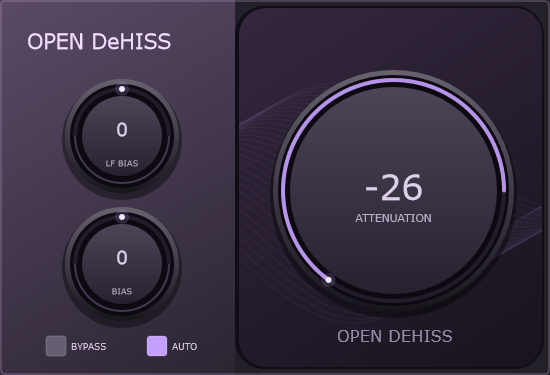
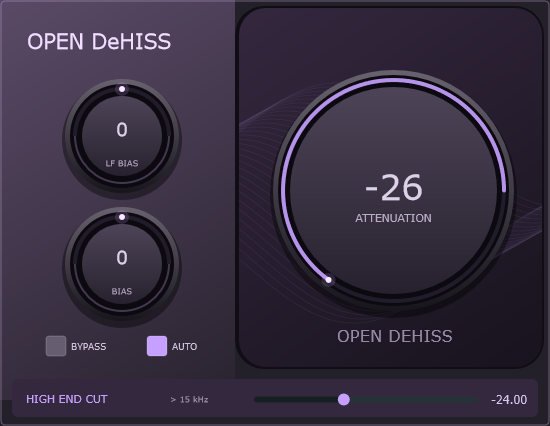
Add independent High End Cut above 15 kHz with DSP and GUI tests

diff --git a/Tests.cpp b/Tests.cpp
@@ -57,17 +57,44 @@ int main()
             for(int i=0;i<count;++i)a.setSample(0,i,noise[offset+i]);p.processBlock(a,m);
             result.insert(result.end(),a.getReadPointer(0),a.getReadPointer(0)+count);offset+=count;}return result;};
     require(partitioned(64)==partitioned(257),"output independent of host block partition");
+    for(double rate:{44100.0,48000.0,96000.0})
+    {
+        HissChannel probe;probe.prepare(rate);const int delay=probe.latency();
+        HissSettings high;high.reduction=0;high.highEndCut=24;high.automatic=false;high.threshold=-20;
+        for(double freq:{1000.0,14000.0,18000.0,21000.0})
+        {
+            std::vector<float> tone(static_cast<size_t>(rate*2),0.f);
+            for(int i=0;i<int(tone.size());++i)tone[i]=float(0.0005*std::sin(2*juce::MathConstants<double>::pi*freq*i/rate));
+            auto filtered=render(tone,rate,high);
+            const double cut=20*std::log10(rms(tone,int(rate),int(2*rate))/rms(filtered,int(rate)+delay,int(2*rate)+delay));
+            std::cout<<"High End Cut "<<rate<<" Hz, tone "<<freq<<" Hz: "<<cut<<" dB\n";
+            require(freq<15000?std::abs(cut)<0.1:std::abs(cut-24)<0.5,"high-band suppression preserves low band and reaches selected floor");
+        }
+    }
+    HissSettings aboveNyquist;aboveNyquist.reduction=0;aboveNyquist.highEndCut=40;
+    std::vector<float> lowRateInput(30000,0.01f);auto lowRateOutput=render(lowRateInput,30000,aboveNyquist);
+    require(lowRateOutput[2000]==lowRateInput[976],"high cut is exact dry when Nyquist is at or below 15 kHz");
+    require(processor.state.getRawParameterValue("highEndCut")->load()==0,"High End Cut defaults off");
+    processor.state.getParameter("highEndCut")->setValueNotifyingHost(0.4f);
+    processor.getStateInformation(saved);restored.setStateInformation(saved.getData(),int(saved.getSize()));
+    require(std::abs(restored.state.getRawParameterValue("highEndCut")->load()+24)<0.001,"High End Cut survives state restore");
     OpenHissProcessor uiProcessor;
     std::unique_ptr<juce::AudioProcessorEditor> editor(uiProcessor.createEditor());
     const auto preview=editor->createComponentSnapshot(editor->getLocalBounds());
     juce::FileOutputStream previewFile(juce::File::getCurrentWorkingDirectory().getChildFile("editor-preview.png"));
+    previewFile.setPosition(0);previewFile.truncate();
     juce::PNGImageFormat png;
-    require(preview.isValid() && preview.getWidth()>0 && png.writeImageToStream(preview,previewFile),"editor instantiates and renders to PNG");
+    require(preview.isValid() && preview.getWidth()==550 && preview.getHeight()==426 && png.writeImageToStream(preview,previewFile),"editor instantiates and renders to PNG");
     auto* dial=dynamic_cast<juce::Slider*>(editor->findChildWithID("attenuation"));
     require(dial && dial->getValue()==0,"attenuation dial displays zero by default");
+    auto* highDial=dynamic_cast<juce::Slider*>(editor->findChildWithID("highEndCut"));
+    require(highDial && highDial->isVisible() && highDial->getValue()==0,"High End Cut control is visible and defaults zero");
+    highDial->setValue(-24,juce::sendNotificationSync);
+    require(std::abs(uiProcessor.state.getRawParameterValue("highEndCut")->load()+24)<0.001,"High End Cut GUI controls its DSP parameter");
     dial->setValue(-26,juce::sendNotificationSync);
     require(std::abs(uiProcessor.state.getRawParameterValue("attenuation")->load()+26)<0.001,"GUI dial updates the DSP attenuation parameter");
     juce::FileOutputStream activePreview(juce::File::getCurrentWorkingDirectory().getChildFile("editor-preview-26.png"));
+    activePreview.setPosition(0);activePreview.truncate();
     require(png.writeImageToStream(editor->createComponentSnapshot(editor->getLocalBounds()),activePreview),"active attenuation editor renders to PNG");
     uiProcessor.state.getParameter("auto")->setValueNotifyingHost(0);
     std::unique_ptr<juce::AudioProcessorEditor> manualEditor(uiProcessor.createEditor());

diff --git a/Editor.cpp b/Editor.cpp
@@ -39,11 +39,11 @@ void PurpleDialLook::drawToggleButton(juce::Graphics& g,juce::ToggleButton& b,bo
 }
 OpenDeHISSEditor::OpenDeHISSEditor(OpenHissProcessor& p):AudioProcessorEditor(p),processor(p)
 {
-    setLookAndFeel(&look);setSize(550,375);
-    const char* ids[]={"attenuation","lowBias","bias","threshold","mix"};
-    juce::Slider* controls[]={&attenuation,&lfBias,&bias,&threshold,&mix};
-    const char* names[]={"ATTENUATION","LF BIAS","BIAS","THRESHOLD","MIX %"};
-    for(int i=0;i<5;++i){auto& s=*controls[i];s.setName(names[i]);s.setComponentID(ids[i]);
+    setLookAndFeel(&look);setSize(550,426);
+    const char* ids[]={"attenuation","lowBias","bias","threshold","mix","highEndCut"};
+    juce::Slider* controls[]={&attenuation,&lfBias,&bias,&threshold,&mix,&highEndCut};
+    const char* names[]={"ATTENUATION","LF BIAS","BIAS","THRESHOLD","MIX %","HIGH END CUT"};
+    for(int i=0;i<6;++i){auto& s=*controls[i];s.setName(names[i]);s.setComponentID(ids[i]);
         s.setSliderStyle(i<3?juce::Slider::RotaryVerticalDrag:juce::Slider::LinearHorizontal);
         s.setTextBoxStyle(i<3?juce::Slider::NoTextBox:juce::Slider::TextBoxRight,false,46,20);
         s.setColour(juce::Slider::thumbColourId,purple);s.setColour(juce::Slider::textBoxTextColourId,juce::Colour(0xffd9c5ee));
@@ -54,6 +54,8 @@ OpenDeHISSEditor::OpenDeHISSEditor(OpenHissProcessor& p):AudioProcessorEditor(p)
     lfBias.setRotaryParameters(juce::MathConstants<float>::pi*1.5f,juce::MathConstants<float>::pi*2.5f,true);
     bias.setRotaryParameters(juce::MathConstants<float>::pi*1.5f,juce::MathConstants<float>::pi*2.5f,true);
     threshold.setVisible(false);mix.setVisible(false);
+    highEndCut.setDoubleClickReturnValue(true,0);
+    highEndCut.setTooltip("Dehiss acima de 15 kHz. 0 dB desliga; valores negativos aumentam a reducao.");
     addAndMakeVisible(bypass);addAndMakeVisible(automatic);
     buttons[0]=std::make_unique<juce::AudioProcessorValueTreeState::ButtonAttachment>(p.state,"bypass",bypass);
     buttons[1]=std::make_unique<juce::AudioProcessorValueTreeState::ButtonAttachment>(p.state,"auto",automatic);
@@ -73,6 +75,7 @@ void OpenDeHISSEditor::resized()
     lfBias.setBounds(58,72,128,128);bias.setBounds(58,200,128,128);attenuation.setBounds(266,63,255,255);
     bypass.setBounds(44,331,95,30);automatic.setBounds(145,331,85,30);
     threshold.setBounds(40,366,185,22);mix.setBounds(375,366,146,22);
+    highEndCut.setBounds(245,386,287,27);
 }
 void OpenDeHISSEditor::paint(juce::Graphics& g)
 {
@@ -84,5 +87,8 @@ void OpenDeHISSEditor::paint(juce::Graphics& g)
         if(x==239)wave.startNewSubPath(float(x),y);else wave.lineTo(float(x),y);}g.setColour(purple.withAlpha(0.09f));g.strokePath(wave,juce::PathStrokeType(0.7f));}
     g.setColour(juce::Colour(0xfff1ddff));g.setFont(25.f);g.drawText("OPEN DeHISS",27,24,207,34,juce::Justification::centredLeft);
     g.setColour(juce::Colour(0xff9989a9));g.setFont(20.f);g.drawText("OPEN DEHISS",265,321,260,29,juce::Justification::centred);
-    g.setColour(juce::Colour(0xffb89ecb).withAlpha(0.5f));g.drawRoundedRectangle(1,1,548,373,4,1);
+    g.setColour(juce::Colour(0xff34283f));g.fillRoundedRectangle(12,379,526,38,6);
+    g.setColour(purple);g.setFont(13.f);g.drawText("HIGH END CUT",26,386,145,26,juce::Justification::centredLeft);
+    g.setColour(juce::Colour(0xffa99ab5));g.setFont(10.f);g.drawText("> 15 kHz",170,386,70,26,juce::Justification::centredLeft);
+    g.setColour(juce::Colour(0xffb89ecb).withAlpha(0.5f));g.drawRoundedRectangle(1,1,548,424,4,1);
 }

diff --git a/Denoiser.h b/Denoiser.h
@@ -6,7 +6,7 @@
 #include <cmath>
 #include <memory>
 #include <vector>
-struct HissSettings { float reduction=12, bias=0, threshold=-65, lowBias=0, mix=1; bool automatic=true, bypass=false; };
+struct HissSettings { float reduction=12, highEndCut=0, bias=0, threshold=-65, lowBias=0, mix=1; bool automatic=true, bypass=false; };
 class HissChannel
 {
 public:
@@ -31,7 +31,8 @@ public:
         const float wet=output[outPos]; output[outPos]=0;
         if(++sinceFrame==hop){sinceFrame=0;frame(s);}
         ++cursor;
-        const float selected=(s.bypass || s.reduction<=0) ? delayed : delayed+s.mix*(wet-delayed);
+        const bool inactive=s.reduction<=0 && (s.highEndCut<=0 || fs*0.5<=15000);
+        const float selected=(s.bypass || inactive) ? delayed : delayed+s.mix*(wet-delayed);
         return std::isfinite(selected) ? selected : 0;
     }
 private:
@@ -42,7 +43,6 @@ private:
         for(int i=0;i<n;++i) work[i]=input[(start+i)%n]*window[i];
         fft->performRealOnlyForwardTransform(work.data());
         const int used=int(std::min<uint64_t>(frames+1,21));
-        const double floorGain=std::pow(10.0,-s.reduction/20.0);
         const double manualPower=std::pow(10.0,s.threshold/10.0)*n*0.5;
         const double timeGain=std::exp(-double(hop)/(fs*0.035));
         for(int k=0;k<bins;++k)
@@ -58,12 +58,17 @@ private:
             else {const double alpha=std::exp(-double(hop)/(fs*(estimate<noise[k]?0.15:3.0)));
                   noise[k]=alpha*noise[k]+(1-alpha)*estimate;}
             const double frequency=double(k)*fs/n;
+            // Same noise estimator and suppression law, restricted to the high band.
+            // A short transition ABOVE 15 kHz avoids a discontinuous spectral edge.
+            const double highWeight=std::clamp((frequency-15000.0)/500.0,0.0,1.0);
+            const double effectiveReduction=std::max(double(s.reduction),s.highEndCut*highWeight);
+            const double floorGain=std::pow(10.0,-effectiveReduction/20.0);
             const double shape=std::pow(10.0,(s.bias+s.lowBias*std::max(0.0,1.0-frequency/5000.0))/10.0);
             const double np=(s.automatic?noise[k]:manualPower)*shape;
             // Independent beta baseline: Wiener-style spectral suppression, not recovered CEDAR code.
             const double target=std::max(floorGain,std::sqrt(std::max(0.0,1.0-np/(p+1e-30))));
             gain[k]=timeGain*gain[k]+(1-timeGain)*target;
-            const double g=(s.reduction<=0 || s.bypass)?1.0:gain[k];
+            const double g=(effectiveReduction<=0 || s.bypass)?1.0:gain[k];
             work[2*k]=float(real*g); work[2*k+1]=float(imag*g);
         }
         fft->performRealOnlyInverseTransform(work.data());

diff --git a/tools/HostCheck.cpp b/tools/HostCheck.cpp
@@ -43,7 +43,24 @@ int main(int argc,char** argv)
     for(int b=0;b<20;++b){buffer.clear();for(int i=0;i<257;++i)buffer.setSample(0,i,float(0.1*std::sin((b*257+i)*0.1)));
         instance->processBlock(buffer,midi);for(int i=0;i<257;++i){const int t=b*257+i;const float expected=t<1024?0:float(0.1*std::sin((t-1024)*0.1));worst=std::max(worst,std::abs(double(buffer.getSample(0,i)-expected)));}}
     std::cout<<"Actual VST3 bypass alignment error: "<<worst<<'\n';
-    instance->releaseResources();
     if(worst>0.000001)return 8;
+    juce::AudioProcessorParameter *high=nullptr,*automatic=nullptr,*threshold=nullptr;
+    for(auto* p:instance->getParameters()){
+        if(p->getName(128).containsIgnoreCase("High End Cut"))high=p;
+        if(p->getName(128).containsIgnoreCase("Automatico"))automatic=p;
+        if(p->getName(128).containsIgnoreCase("Noise floor"))threshold=p;}
+    if(!high || !automatic || !threshold || std::abs(high->getValue()-1)>0.00001)return 10;
+    bypass->setValueNotifyingHost(0);attenuation->setValueNotifyingHost(1);
+    automatic->setValueNotifyingHost(0);threshold->setValueNotifyingHost(1);high->setValueNotifyingHost(0.4f);
+    instance->releaseResources();instance->prepareToPlay(48000,257);
+    const double pi=juce::MathConstants<double>::pi;double lo=0,hi=0;int count=0;
+    for(int b=0;b<400;++b){buffer.clear();for(int i=0;i<257;++i){const int t=b*257+i;
+        buffer.setSample(0,i,float(0.0005*(std::sin(2*pi*1000*t/48000)+std::sin(2*pi*18000*t/48000))));}
+        instance->processBlock(buffer,midi);
+        if(b>=200)for(int i=0;i<257;++i){const int t=b*257+i-1024;const double v=buffer.getSample(0,i);
+            lo+=v*std::sin(2*pi*1000*t/48000);hi+=v*std::sin(2*pi*18000*t/48000);++count;}}
+    const double lowDb=-20*std::log10(std::abs(2*lo/count)/0.0005),highDb=-20*std::log10(std::abs(2*hi/count)/0.0005);
+    std::cout<<"Actual VST3 High End Cut low-band loss dB: "<<lowDb<<"; high-band reduction dB: "<<highDb<<'\n';
+    instance->releaseResources();if(std::abs(lowDb)>0.1 || std::abs(highDb-24)>0.5)return 11;
     std::cout<<"PASS actual compiled VST3 load, processing, latency and bypass\n";return 0;
 }

diff --git a/Processor.cpp b/Processor.cpp
@@ -11,14 +11,15 @@ static juce::AudioProcessorValueTreeState::ParameterLayout layout()
     p.add(std::make_unique<juce::AudioParameterBool>(juce::ParameterID{"auto",1},"Automatico",true));
     p.add(std::make_unique<juce::AudioParameterBool>(juce::ParameterID{"bypass",1},"Bypass",false));
     p.add(std::make_unique<juce::AudioParameterFloat>(juce::ParameterID{"mix",1},"Mix (%)",0.f,100.f,100.f));
+    p.add(std::make_unique<juce::AudioParameterFloat>(juce::ParameterID{"highEndCut",1},"High End Cut (dB)",-40.f,0.f,0.f));
     return p;
 }
 OpenHissProcessor::OpenHissProcessor()
  : AudioProcessor(BusesProperties().withInput("Input",juce::AudioChannelSet::stereo(),true).withOutput("Output",juce::AudioChannelSet::stereo(),true)),
    state(*this,nullptr,"OpenHissState",layout())
 {
-    const char* ids[]={"attenuation","bias","threshold","lowBias","auto","bypass","mix"};
-    for(int i=0;i<7;++i) params[i]=state.getRawParameterValue(ids[i]);
+    const char* ids[]={"attenuation","bias","threshold","lowBias","auto","bypass","mix","highEndCut"};
+    for(int i=0;i<8;++i) params[i]=state.getRawParameterValue(ids[i]);
 }
 void OpenHissProcessor::prepareToPlay(double fs,int)
 {
@@ -41,6 +42,7 @@ void OpenHissProcessor::processAudio(juce::AudioBuffer<float>& b,bool forceBypas
     s.threshold=safeParam(params[2]->load(),-90,-20,-65);s.lowBias=safeParam(params[3]->load(),-10,10,0);
     s.automatic=params[4]->load()>0.5f;s.bypass=forceBypass || params[5]->load()>0.5f;
     s.mix=safeParam(params[6]->load(),0,100,100)/100.f;
+    s.highEndCut=-safeParam(params[7]->load(),-40,0,0);
     for(int c=0;c<std::min(2,b.getNumChannels());++c)
     {auto* p=b.getWritePointer(c);for(int i=0;i<b.getNumSamples();++i)p[i]=channels[c].process(p[i],s);}
     for(int c=2;c<b.getNumChannels();++c)b.clear(c,0,b.getNumSamples());

diff --git a/Editor.h b/Editor.h
@@ -19,8 +19,8 @@ private:
     OpenHissProcessor& processor;
     PurpleDialLook look;
     bool lastAuto=true;
-    juce::Slider attenuation,lfBias,bias,threshold,mix;
+    juce::Slider attenuation,lfBias,bias,threshold,mix,highEndCut;
     juce::ToggleButton bypass{"BYPASS"},automatic{"AUTO"};
-    std::array<std::unique_ptr<juce::AudioProcessorValueTreeState::SliderAttachment>,5> sliders;
+    std::array<std::unique_ptr<juce::AudioProcessorValueTreeState::SliderAttachment>,6> sliders;
     std::array<std::unique_ptr<juce::AudioProcessorValueTreeState::ButtonAttachment>,2> buttons;
 };

diff --git a/Processor.h b/Processor.h
@@ -30,6 +30,6 @@ public:
 private:
     void processAudio(juce::AudioBuffer<float>&,bool forceBypass);
     std::array<HissChannel,2> channels;
-    std::array<std::atomic<float>*,7> params{};
+    std::array<std::atomic<float>*,8> params{};
     bool prepared=false;
 };

diff --git a/README.md b/README.md
@@ -12,6 +12,12 @@ Copie a pasta inteira `Open DeHISS.vst3` para `C:\Program Files\Common Files\VST
 
 Latência reportada: 1024 amostras a 44,1/48 kHz; 2048 a 96 kHz. O plugin não altera configurações de áudio do Windows. Sem iLok, ativação ou comunicação de rede no código próprio.
 
+## High End Cut (0.3.0)
+
+Controle independente de **0 a −40 dB**, padrão **0 (desligado)**, dedicado ao hiss acima de **15 kHz**. Use-o mesmo com Atenuação geral em 0 dB. Compartilha o estimador e a regra de supressão do dehiss; não acrescenta outra FFT ou latência. A transição ocorre de 15 a 15,5 kHz, com força completa acima de 15,5 kHz. Com Atenuação geral desligada, os bins até 15 kHz mantêm ganho unitário; pequenas diferenças próximas à borda são inerentes à análise por janelas.
+
+É uma supressão adaptativa de hiss, e não um filtro passa-baixas que apaga todo o áudio acima de 15 kHz: componentes classificados como sinal podem permanecer. Auto/Bias/Threshold também influenciam essa estimativa. Se ambos os controles estiverem ativos, aplica o maior limite de redução por bin, evitando empilhar dois dehiss. Bypass e Mix continuam valendo para todo o processamento.
+
 ## Build
 
 Requisitos: Visual Studio 2022 Build Tools com C++, Windows SDK e CMake ≥3.22. Use um checkout curto (por exemplo C:\OpenDeHISS). JUCE 8.0.15 é baixado automaticamente de um commit fixado com hash do ZIP validado. Para build offline, passe `-DJUCE_SOURCE_DIR=C:/caminho/JUCE`.
